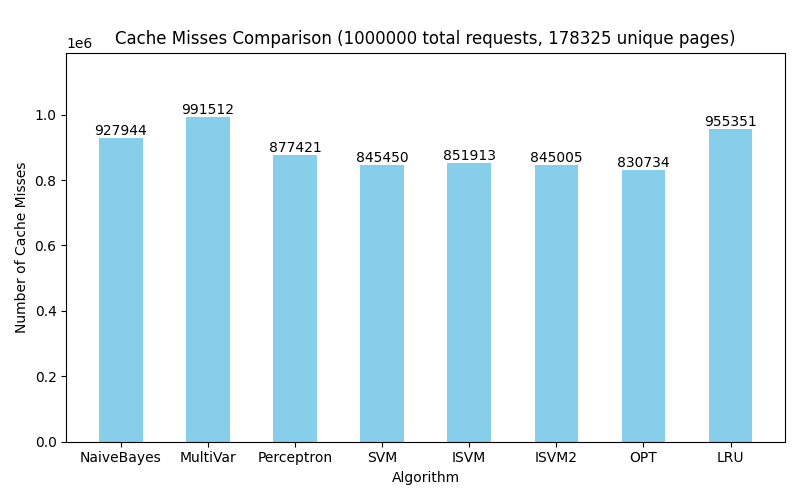
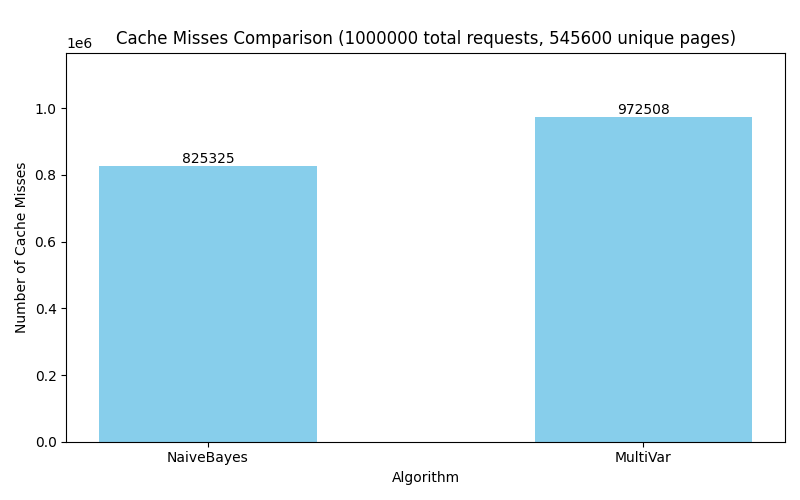
fix NaiveBayes,MultiVar

diff --git a/src/scheduler/ISVM.py b/src/scheduler/ISVM.py
@@ -158,7 +158,7 @@ class ISVM_Cache:
             # 预测
             if X1[i] not in self.isvm_table:
                 self.isvm_table[X1[i]] = ISVM(self.upper_bound)
-            Y_pred.append(self.isvm_table[X1[i]].svm_predict(X_processed[i]) // 50)
+            Y_pred.append(self.isvm_table[X1[i]].svm_predict(X_processed[i]))
             # 按实际label增量训练
             self.isvm_table[X1[i]].svm_update_one(X_processed[i], Y_processed[i])
         return Y_pred
@@ -390,7 +390,7 @@ class MultiVar_Cache:
             xi = X[i].obj_id
             if xi not in self.multivar_table:
                 self.multivar_table[xi] = MultiVariableLinearClassifier(self.M)
-            Y_pred.append(int(self.multivar_table[xi].predict_one(X_processed[i])))
+            Y_pred.append(int(self.multivar_table[xi].predict_one(X_processed[i]) * 1000))
             # 按实际label增量训练
             self.multivar_table[xi].fit_one(X_processed[i], Y[i])
 
@@ -502,7 +502,7 @@ class NaiveBayes_Cache:
             xi = X[i].obj_id
             if xi not in self.naivebayes_table:
                 self.naivebayes_table[xi] = NaiveBayes(self.M)
-            Y_pred.append(int(self.naivebayes_table[xi].predict_one(X_processed[i])))
+            Y_pred.append(int(self.naivebayes_table[xi].predict_one(X_processed[i]) * 1000))
             # 按实际label增量训练
             self.naivebayes_table[xi].fit_one(X_processed[i], Y[i])
 
